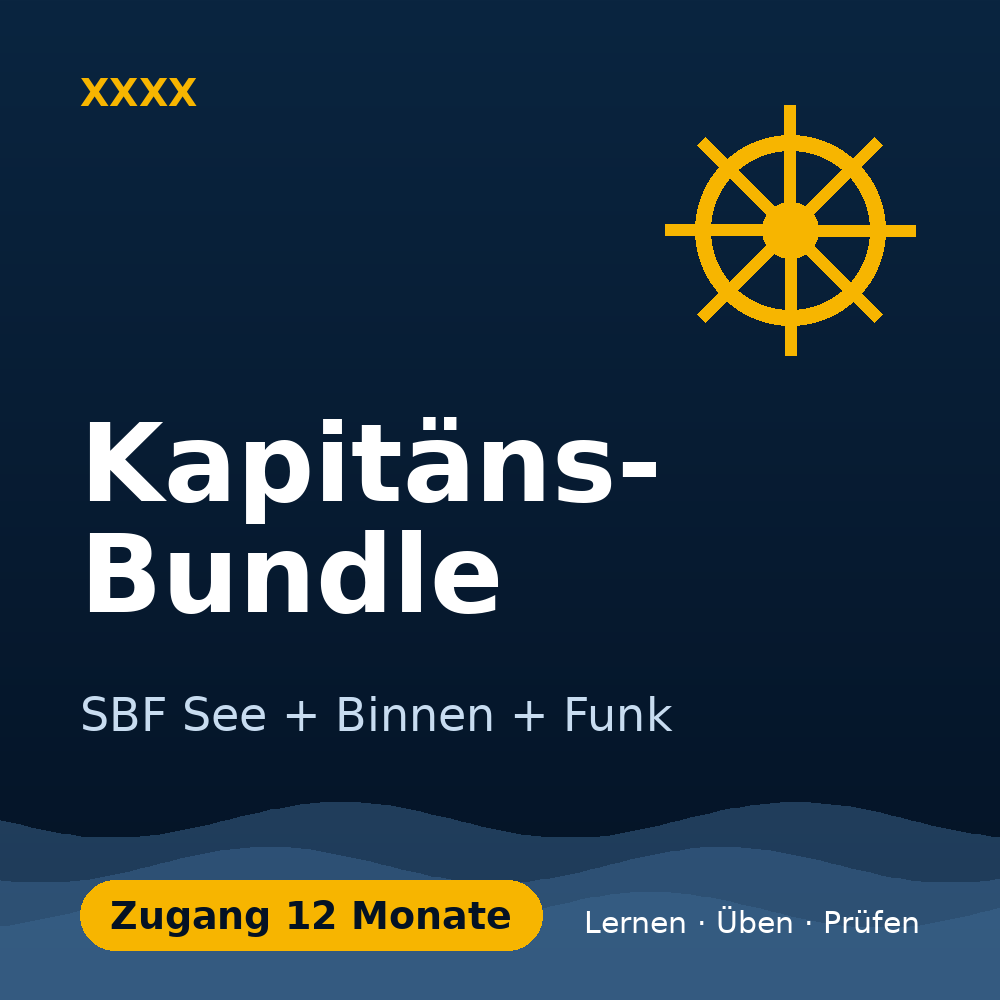
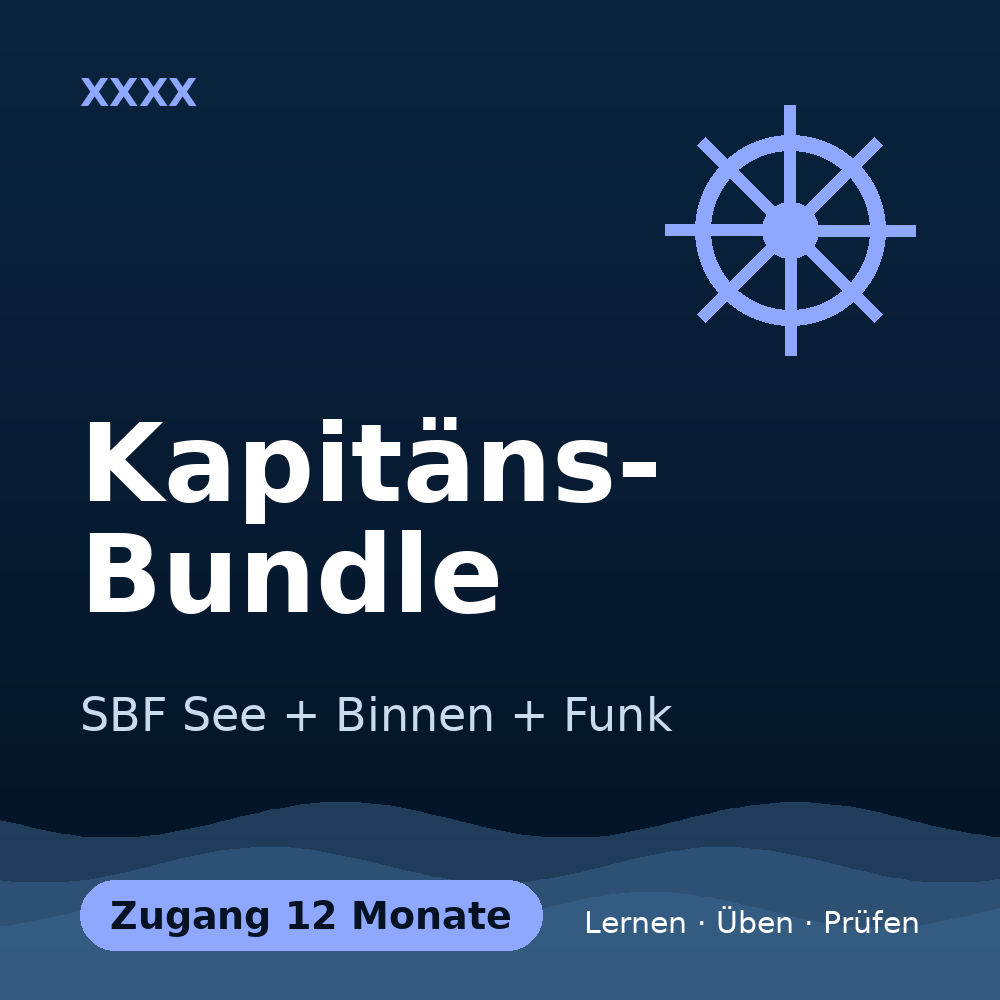
Kombikurse: Akzentfarbe Periwinkle statt Gelb (Kurskopf und Produktbilder)
- SBF See & Binnen und SRC & UBI: Kurskopf mit #8EA8FF statt Gelb
- Produktbilder BP-SBF-SEE-BIN, BP-SRC-UBI und BP-KAPITAEN neu erzeugt
- Gelb bleibt den Aktions-Buttons vorbehalten (z. B. „Videokurs starten“)

Claude-Session: https://claude.ai/code/session_01MqU1sfark58AxRAetH4u4K

diff --git a/bootspruefung-learning/assets/build/app.js b/bootspruefung-learning/assets/build/app.js
@@ -446,9 +446,9 @@
 
 	// Kopfbereich der Kursseite im Stil der Produktbilder: Navy, Wellen, Liniensymbol, Akzentfarbe je Kurs.
 	var HERO_STYLE = {
-		'SBF-SEE': ['anchor', '#40C4FF'], 'SBF-BIN-MOTOR': ['anchor', '#66DCA0'], 'SBF-BIN-SEGEL': ['sail', '#66DCA0'], 'SBF-SEE-BIN': ['anchor', '#F7B500'],
+		'SBF-SEE': ['anchor', '#40C4FF'], 'SBF-BIN-MOTOR': ['anchor', '#66DCA0'], 'SBF-BIN-SEGEL': ['sail', '#66DCA0'], 'SBF-SEE-BIN': ['anchor', '#8EA8FF'],
 		'ADD-SEE-TO-BIN': ['plus', '#66DCA0'], 'ADD-BIN-TO-SEE': ['plus', '#40C4FF'], 'ADD-BIN-SEGEL': ['plus', '#66DCA0'], 'ADD-UBI-TO-SRC': ['plus', '#40C4FF'], 'ADD-FKN-TO-SKN': ['plus', '#FF8C5A'],
-		'SRC': ['radio', '#40C4FF'], 'UBI': ['radio', '#66DCA0'], 'SRC-UBI': ['radio', '#F7B500'], 'SKN': ['flare', '#FF785A'], 'FKN': ['flare', '#FFA05A']
+		'SRC': ['radio', '#40C4FF'], 'UBI': ['radio', '#66DCA0'], 'SRC-UBI': ['radio', '#8EA8FF'], 'SKN': ['flare', '#FF785A'], 'FKN': ['flare', '#FFA05A']
 	};
 	var HERO_ICONS = {
 		anchor: '<circle cx="60" cy="22" r="11"/><path d="M60 33v70"/><path d="M36 52h48"/><path d="M22 74c4 18 20 29 38 29s34-11 38-29"/>',

diff --git a/tools/product-images/generate.py b/tools/product-images/generate.py
@@ -20,10 +20,10 @@ BRAND = os.environ.get('BRAND', 'XXXX')
 
 # SKU, Zeile 1 (groß), Zeile 2, Laufzeit, Symbol, Akzentfarbe
 PRODUCTS = [
-    ('BP-SBF-SEE-BIN', 'SBF See\n& Binnen', 'Kombikurs', '12 Monate', 'anchor', (247, 181, 0)),
+    ('BP-SBF-SEE-BIN', 'SBF See\n& Binnen', 'Kombikurs', '12 Monate', 'anchor', (142, 168, 255)),
     ('BP-SBF-SEE', 'SBF See', 'Einzelkurs', '12 Monate', 'anchor', (64, 196, 255)),
     ('BP-SBF-BIN', 'SBF Binnen', 'Einzelkurs', '12 Monate', 'anchor', (102, 220, 160)),
-    ('BP-SRC-UBI', 'SRC & UBI', 'Funk-Kombikurs', '12 Monate', 'radio', (247, 181, 0)),
+    ('BP-SRC-UBI', 'SRC & UBI', 'Funk-Kombikurs', '12 Monate', 'radio', (142, 168, 255)),
     ('BP-SRC', 'SRC', 'Funk-Vollkurs', '12 Monate', 'radio', (64, 196, 255)),
     ('BP-UBI', 'UBI', 'Funk-Vollkurs', '12 Monate', 'radio', (102, 220, 160)),
     ('BP-SBF-BIN-SEGEL', 'SBF Binnen\nunter Segel', 'Vollkurs', '12 Monate', 'sail', (102, 220, 160)),
@@ -34,7 +34,7 @@ PRODUCTS = [
     ('BP-ADD-BIN-SEGEL', 'Binnen →\nSegeln', 'Ergänzungskurs', '6 Monate', 'plus', (102, 220, 160)),
     ('BP-ADD-UBI-TO-SRC', 'SRC → UBI', 'Ergänzungskurs', '6 Monate', 'plus', (64, 196, 255)),
     ('BP-ADD-FKN-TO-SKN', 'FKN → SKN', 'Ergänzungskurs', '6 Monate', 'plus', (255, 140, 90)),
-    ('BP-KAPITAEN', 'Kapitäns-\nBundle', 'SBF See + Binnen + Funk', '12 Monate', 'wheel', (247, 181, 0)),
+    ('BP-KAPITAEN', 'Kapitäns-\nBundle', 'SBF See + Binnen + Funk', '12 Monate', 'wheel', (142, 168, 255)),
     ('BP-PASS-1M', '1-Monats-\nPass', 'Alle Inhalte', '30 Tage', 'clock', (64, 196, 255)),
     ('BP-PASS-3M', '3-Monats-\nPass', 'Alle Inhalte', '90 Tage', 'clock', (247, 181, 0)),
     ('SIM-PASS-14D', 'Funkgerät-\nSimulator', '14-Tage-Sprint · SRC/UBI', '14 Tage', 'radio', (255, 120, 90)),
